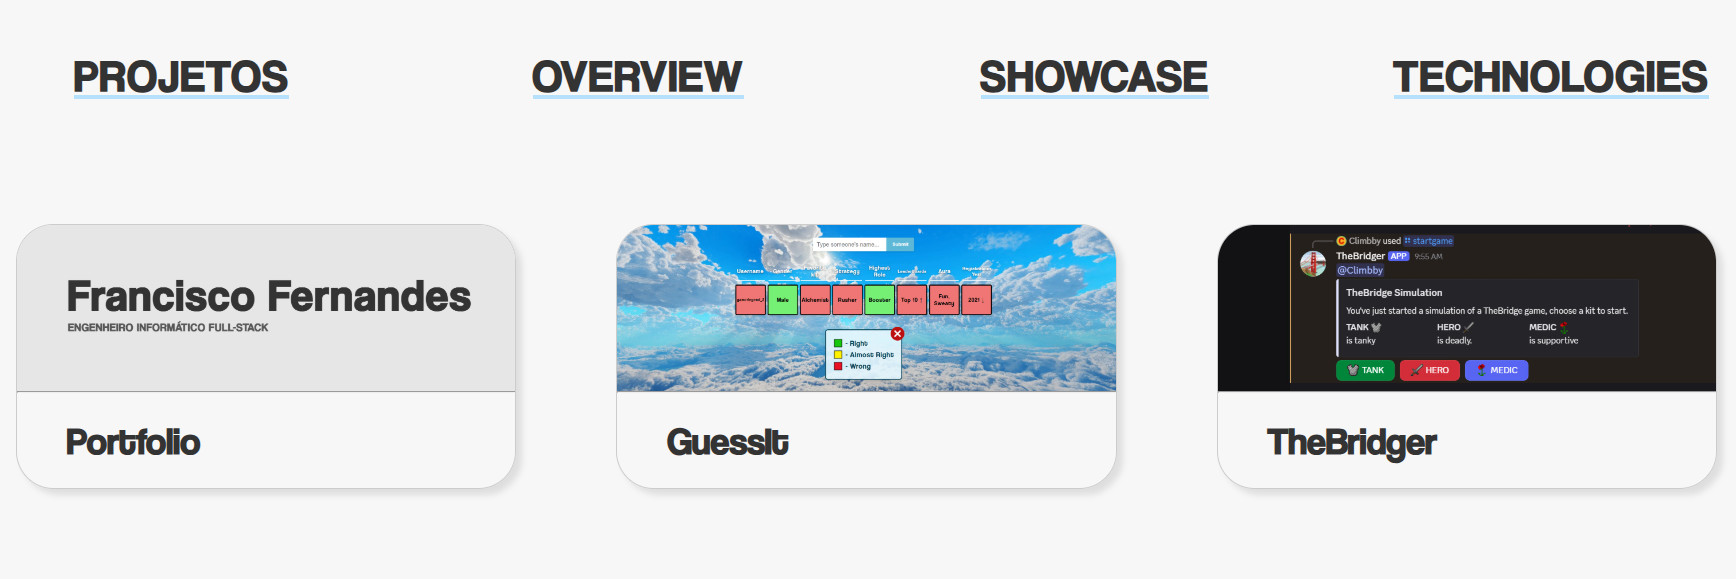
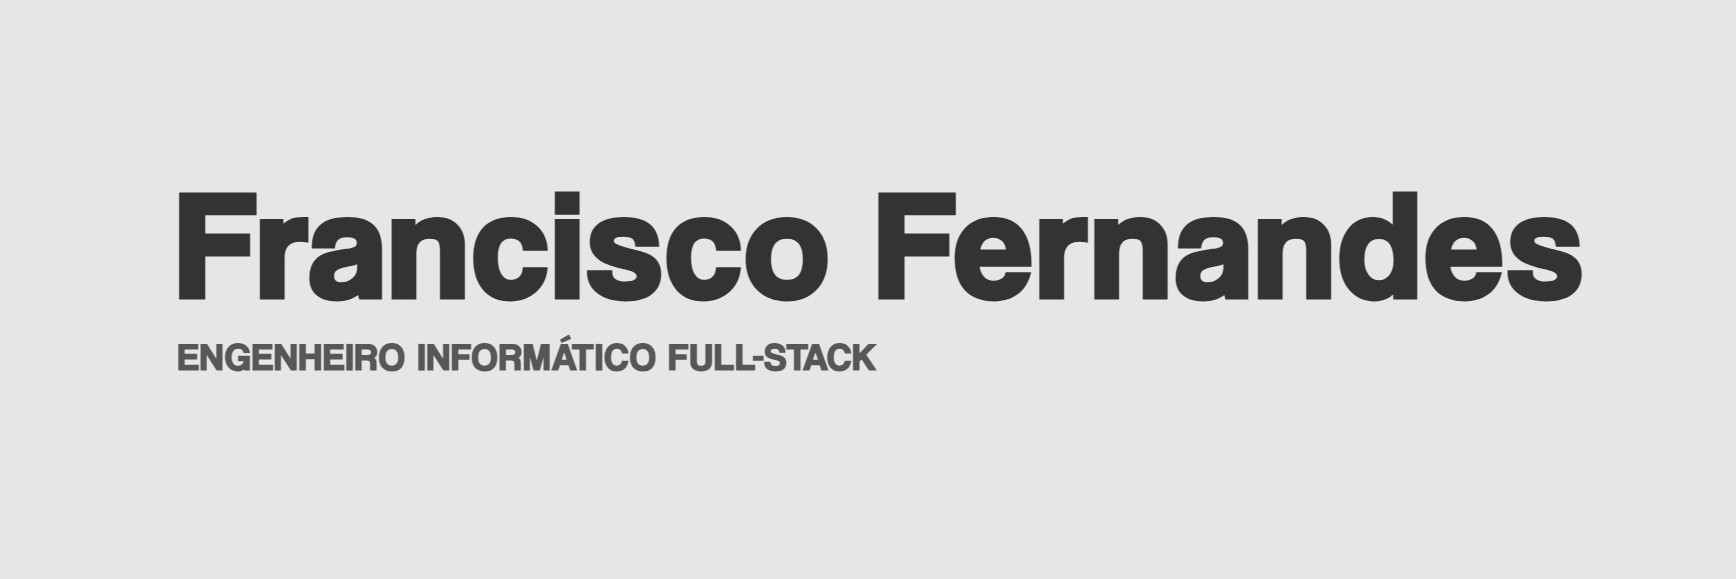
carousel images added on demonstration section

diff --git a/index.html b/index.html
@@ -42,7 +42,7 @@
             <div id="the-projetos">
                 <div class="card-outline active">
                     <article class="card" id="portfolio">
-                        <img src="Images/portfolioImg2.jpg" alt="Portfolio">
+                        <img src="Images/portfolioImg.jpg" alt="Portfolio">
                         <h3>Portfolio</h3>
                     </article>
                 </div>
@@ -72,20 +72,23 @@
                 <article id="portfolio">
                     Começado em Fevereiro de 2025, este é o meu primeiro projeto e website, o meu portfólio. Aqui podes ver um pouco
                     sobre mim, o meu currículo, conhecimentos atuais, disponibilizo também os meus perfis e formas de me contactar, mas 
-                    o principal foco deste portfólio, é a exposição dos meus mais trabalhados projetos. Quando selecionas um dos meus 
-                    projetos, consegues também ver a sua descrição, algumas imagens juntamente com o seu acesso, e as linguagens ou 
-                    tecnologias usadas para a realização de cada um.
+                    o principal foco deste portfólio, é a exposição dos meus mais trabalhados projetos. <br> <br>
+                    
+                    Quando selecionas um dos meus projetos, consegues também ver a sua descrição, algumas imagens juntamente com o 
+                    seu acesso, e as linguagens ou tecnologias usadas para a realização de cada um.
                 </article>
                 <article id="guessit">
                     Foi começado em Março de 2025 o meu primeiro website funcional e jogo, o guessit. É um jogo baseado no wordle, em que
-                    ganhas se o jogador escolhido secretamente e aleatóriamente, corresponder ao jogador que introduziste. Quando
+                    ganhas se o jogador escolhido secretamente e aleatóriamente, corresponder ao jogador que introduziste. <br> <br> Quando
                     introduzes um jogador, são mostradas caixas com as características e uma cor, em que verde significa certo, e vermelho
                     significa errado. Ganhas o jogo quando todas as caixas ficarem verdes.                    
                 </article>
                 <article id="thebridger">
                     Tendo-se iniciado em Abril de 2025, este é um chat-bot feito com recurso ao python e librarias externas, o TheBridger.
-                    O TheBridger, que foi feito para ser um bot no Discord, tem como objetivo simular um jogo de The Bridge. Este bot foi
-                    criado porque o modo de jogo mencionado, muitas vezes não alcança o mínimo de jogadores necessários para começar.
+                    O TheBridger, que foi feito para ser um bot no Discord, tem como objetivo simular um jogo de The Bridge. <br> <br>
+                    
+                    Este bot foi criado porque o modo de jogo mencionado, muitas vezes não alcança o mínimo de jogadores necessários 
+                    para começar uma partida. <br> <br>
 
                     As tuas decisões importam! Tens que fazer as escolhas certas, que alterarão as probabilidades de acontecerem certos
                     eventos, e tens que destruir o Nexus dos oponentes.
@@ -94,29 +97,58 @@
 
             <div class="seccao demonstracao">
                 <article id="portfolio">
+                    <div class="carousel">
+                        <div class="carousel-inner">
+                            <img src="Images/portfolioOverview.jpg" alt="Portfolio1">
+                            <img src="Images/portfolioOverview2.jpg" alt="Portfolio2">
+                        </div>
+                        <button class="carousel-control prev">❮</button>
+                        <button class="carousel-control next">❯</button>
+                    </div>
+
                     <a href="https://github.com/Climbby/Portfolio" target="_blank">
-                        <img src="Images/Github.svg" id="github" alt="Portfolio">
+                        <img src="Images/Github.svg" id="github" alt="GitHub">
                     </a>
                     <a href="https://climbby.github.io/Portfolio/" id="link" target="_blank">
-                        projeto: https://climbby.github.io/Portfolio/
+                        <i>https://climbby.github.io/Portfolio/</i>
                     </a>
                 </article>
 
                 <article id="guessit">
+                    <div class="carousel">
+                        <div class="carousel-inner">
+                            <img src="Images/guessitOverview.jpg" alt="GuessIt1">
+                            <img src="Images/guessitOverview2.jpg" alt="GuessIt2">
+                            <img src="Images/guessitOverview3.jpg" alt="GuessIt3">
+                        </div>
+                        <button class="carousel-control prev">❮</button>
+                        <button class="carousel-control next">❯</button>
+                    </div>
+
                     <a href="https://github.com/Climbby/GuessIt_front" target="_blank">
-                        <img src="Images/Github.svg" id="github" alt="GuessIt">
+                        <img src="Images/Github.svg" id="github" alt="GitHub">
                     </a>
                     <a href="https://climbby.github.io/GuessIt_front/" id="link" target="_blank">
-                        projeto: https://climbby.github.io/GuessIt_front/
+                        <i>https://climbby.github.io/GuessIt_front/</i>
                     </a>
                 </article>
 
                 <article id="thebridger">
+                    <div class="carousel">
+                        <div class="carousel-inner">
+                            <img src="Images/thebridgerOverview.jpg" alt="TheBridger1">
+                            <img src="Images/thebridgerOverview2.jpg" alt="TheBridger2">
+                            <img src="Images/thebridgerOverview3.jpg" alt="TheBridger3">
+                        </div>
+                        <button class="carousel-control prev">❮</button>
+                        <button class="carousel-control next">❯</button>
+                    </div>
+
                     <a href="https://github.com/Climbby/TheBridger" target="_blank">
-                        <img src="Images/Github.svg" id="github" alt="TheBridger">
+                        <img src="Images/Github.svg" id="github" alt="GitHub">
                     </a>
                     <a href="https://discord.gg/AUeYVZnnHD" id="link" target="_blank">
-                        projeto: https://discord.gg/AUeYVZnnHD
+                        <i>https://discord.gg/AUeYVZnnHD</i>
                     </a>
                 </article>
             </div>

diff --git a/en/index.html b/en/index.html
@@ -42,7 +42,7 @@
             <div id="the-projetos">
                 <div class="card-outline active">
                     <article class="card" id="portfolio">
-                        <img src="/Images/portfolioImg2.jpg" alt="Portfolio">
+                        <img src="/Images/portfolioImg.jpg" alt="Portfolio">
                         <h3>Portfolio</h3>
                     </article>
                 </div>
@@ -72,19 +72,24 @@
                 <article id="portfolio">
                     Having started in February 2025, this is my first project and website, my portfolio. Here you can see a bit about 
                     me, my resume, current skills, I also provide my profiles and ways to contact me, but the main focus of this 
-                    portfolio is the exposure of my most worked on projects. When you select one of my projects, you can also see its 
+                    portfolio is the exposure of my most worked on projects. <br> <br>
+                    
+                    When you select one of my projects, you can also see its 
                     description, some images along with its access, and the languages or technologies used for the realization of each one.
                 </article>
                 <article id="guessit">
                     This is my first functional website and game, guessit, which started in March 2025. It is a game based on wordle, 
-                    where you win if the secretly and randomly chosen player matches the player you entered. When you enter a player,
-                    boxes with characteristics and a color are shown, where green means right, and red means wrong. You win the game when
-                    all the boxes turn green.                   
+                    where you win if the secretly and randomly chosen player matches the player you entered. <br> <br>
+                    
+                    When you enter a player, boxes with characteristics and a color are shown, where green means right, and red means 
+                    wrong. You win the game when all the boxes turn green.                   
                 </article>
                 <article id="thebridger">
                     TheBridger is a project I started in April 2025, this is a chat-bot made with python and external libraries, TheBridger.
-                    TheBridger, which was made to be a bot on Discord, aims to simulate a game of The Bridge. This bot was created because 
-                    the mentioned game mode often does not reach the minimum number of players required to start.
+                    TheBridger, which was made to be a bot on Discord, aims to simulate a game of The Bridge. <br> <br>
+                    
+                    This bot was created because the mentioned game mode often lacks the minimum number of players required 
+                    to start. <br> <br>
 
                     Your decisions matter! You have to make the right choices, which will change the probabilities of certain events 
                     happening, and you have to destroy the opponents' Nexus.
@@ -93,29 +98,58 @@
 
             <div class="seccao demonstracao">
                 <article id="portfolio">
+                    <div class="carousel">
+                        <div class="carousel-inner">
+                            <img src="/Images/portfolioOverview.jpg" alt="Portfolio1">
+                            <img src="/Images/portfolioOverview2.jpg" alt="Portfolio2">
+                        </div>
+                        <button class="carousel-control prev">❮</button>
+                        <button class="carousel-control next">❯</button>
+                    </div>
+
                     <a href="https://github.com/Climbby/Portfolio" target="_blank">
-                        <img src="/Images/Github.svg" id="github" alt="Portfolio">
+                        <img src="/Images/Github.svg" id="github" alt="GitHub">
                     </a>
                     <a href="https://climbby.github.io/Portfolio/" id="link" target="_blank">
-                        project: https://climbby.github.io/Portfolio/
+                        <i>https://climbby.github.io/Portfolio/</i>
                     </a>
                 </article>
 
                 <article id="guessit">
+                    <div class="carousel">
+                        <div class="carousel-inner">
+                            <img src="/Images/guessitOverview.jpg" alt="GuessIt1">
+                            <img src="/Images/guessitOverview2.jpg" alt="GuessIt2">
+                            <img src="/Images/guessitOverview3.jpg" alt="GuessIt3">
+                        </div>
+                        <button class="carousel-control prev">❮</button>
+                        <button class="carousel-control next">❯</button>
+                    </div>
+
                     <a href="https://github.com/Climbby/GuessIt_front" target="_blank">
-                        <img src="/Images/Github.svg" id="github" alt="GuessIt">
+                        <img src="/Images/Github.svg" id="github" alt="GitHub">
                     </a>
                     <a href="https://climbby.github.io/GuessIt_front/" id="link" target="_blank">
-                        project: https://climbby.github.io/GuessIt_front/
+                        <i>https://climbby.github.io/GuessIt_front/</i>
                     </a>
                 </article>
 
                 <article id="thebridger">
+                    <div class="carousel">
+                        <div class="carousel-inner">
+                            <img src="/Images/thebridgerOverview.jpg" alt="TheBridger1">
+                            <img src="/Images/thebridgerOverview2.jpg" alt="TheBridger2">
+                            <img src="/Images/thebridgerOverview3.jpg" alt="TheBridger3">
+                        </div>
+                        <button class="carousel-control prev">❮</button>
+                        <button class="carousel-control next">❯</button>
+                    </div>
+
                     <a href="https://github.com/Climbby/TheBridger" target="_blank">
-                        <img src="/Images/Github.svg" id="github" alt="TheBridger">
+                        <img src="/Images/Github.svg" id="github" alt="GitHub">
                     </a>
                     <a href="https://discord.gg/AUeYVZnnHD" id="link" target="_blank">
-                        project: https://discord.gg/AUeYVZnnHD
+                        <i>https://discord.gg/AUeYVZnnHD</i>
                     </a>
                 </article>
             </div>

diff --git a/index.js b/index.js
@@ -5,9 +5,14 @@ const titles = document.querySelectorAll('#projetos #titles-container .title')
 const projetos = document.querySelector('.container#projetos')
 const githubs = document.querySelectorAll('.container#projetos .seccao #github')
 const articleLinks = document.querySelectorAll('.container#projetos .seccao.demonstracao article #link')
+const demonstracaoArticles = document.querySelectorAll('.container#projetos .seccao.demonstracao article')
+const prevBtns = document.querySelectorAll('.carousel-control.prev');
+const nextBtns = document.querySelectorAll('.carousel-control.next');
+let demonstracaoArticlesDictionary = {}
 let card_id = "portfolio"
 let title_id = "visao-geral"
 
+// sets size for each section
 function calculate_size(){
     const projetos__seccao = document.querySelector('#projetos #the-projetos')
     projetos.style.height = `${titlesContainer.offsetHeight + projetos__seccao.offsetHeight + 500}px`
@@ -17,7 +22,7 @@ function calculate_size(){
     git_pos()
     links_pos()
 }
-
+//sets git position in sections
 function git_pos(){
     
     githubs.forEach(github => {
@@ -25,6 +30,7 @@ function git_pos(){
         github.style.top = `${zeroHeight - 50}px`
     })
 }
+//sets project link position in demonstration
 function links_pos(){
     
     articleLinks.forEach(link => {
@@ -65,12 +71,50 @@ titles.forEach(title => {
   })
 })
 
+// sets carousel buttons functionality
+demonstracaoArticles.forEach(article => {
+    let prevButton = article.querySelector('.carousel-control.prev')
+    let nextButton = article.querySelector('.carousel-control.next')
+    let images = article.querySelectorAll('.carousel img')
+    let dAD = demonstracaoArticlesDictionary
+
+    dAD[article.id] = [0, 0, images.length - 1]
+    // values are   = [min, current_image, max]
+
+    prevButton.addEventListener('click', () => {
+        if(dAD[article.id][1] == dAD[article.id][0]) return 
+        dAD[article.id][1]++
+
+        images.forEach(image => {
+            image.style.transform = `translateY(${dAD[article.id][1] * 100}%)`
+        });
+
+        nextButton.style.visibility = 'visible';
+        if(dAD[article.id][1] == dAD[article.id][0]){
+            prevButton.style.visibility = 'hidden';
+        }
+    })
+    nextButton.addEventListener('click', () => {
+        if(dAD[article.id][1] == -dAD[article.id][2]) return
+        dAD[article.id][1]--
+
+        images.forEach(image => {
+            image.style.transform = `translateY(${dAD[article.id][1] * 100}%)`
+        });
+
+        prevButton.style.visibility = 'visible';
+        if(dAD[article.id][1] == -dAD[article.id][2]){
+            nextButton.style.visibility = 'hidden';
+        }
+    })
+});
+
+// show content based on selected title/tab selected
 function change_content(){
 
     let seccao_content = document.querySelector(`.seccao.${title_id}`)
     let content = document.querySelector(`.seccao.${title_id} #${card_id}`)
 
-    // show content based on selected title
     seccoes.forEach(seccao => {        
         seccao.style.display = "none"
         articles = seccao.querySelectorAll("article")
@@ -99,6 +143,6 @@ function change_content(){
 
 }
 
-calculate_size()
-change_content()
+calculate_size() // sets size for each section
+change_content() // show content based on active title (first tab by default)
 window.addEventListener('resize', calculate_size)

diff --git a/style.css b/style.css
@@ -196,6 +196,10 @@ main{
 .container#projetos .seccao #github{
     position: absolute;
     right: 9vw;
+    z-index: 1;
+}
+.container#projetos .seccao #github:hover{
+    transform: translateY(-5%);
 }
 .container#projetos .seccao.visao-geral{
     display: block;
@@ -209,13 +213,51 @@ main{
 }
 .container#projetos .seccao.demonstracao article{
     display: none;
+    width: 100%;
 }
 .container#projetos .seccao.demonstracao article #link{
+    width: 100%;
     position: absolute;
     text-decoration: none;
-    color: inherit;
+    color: hsl(0, 0%, 70%);
+    box-sizing: border-box;
+    overflow-wrap: break-word;
     font-size: 30px;
     padding-left: 9vw;
+}
+.container#projetos .seccao.demonstracao article #link:hover{
+    transform: translateY(-10%) ;
+}
+.carousel{
+    position: relative;
+    width: min(500px, 30vw);
+    aspect-ratio: 16/9;
+    margin: 60px auto;
+    overflow: hidden;
+    box-shadow: 3px 3px 10px hsla(0, 0%, 0%, 0.1);
+    border-radius: 5px;
+}
+.carousel img{
+    display: block; /* to remove whitespace between images */
+    width: 100%;
+}
+.carousel-control {
+    position: absolute;
+    top: 50%;
+    transform: translateY(-50%);
+    background: rgba(0,0,0,0.5);
+    color: white;
+    border: none;
+    padding: 10px;
+    cursor: pointer;
+}
+
+.prev { 
+    visibility: hidden;
+    left: 10px; 
+}
+.next { 
+    right: 10px; 
 }
 .container#projetos .seccao.tecnologias article{
     display: none;
@@ -236,7 +278,7 @@ main{
     width: 96px;
     pointer-events: auto;
 }
-.container#projetos .seccao.tecnologias article .image-text{
+.container#projetos .seccao.tecnologias .image-text{
     position: absolute;
     bottom: 80px;
     left: 50%;
@@ -247,10 +289,10 @@ main{
     transform: translateX(-50%);
     opacity: 0;
 }
-.container#projetos .seccao.tecnologias article img:hover{
+.container#projetos .seccao.tecnologias img:hover{
     transform: translateX(-50%) scale(1.1);
 }
-.container#projetos .seccao.tecnologias article img:hover + .image-text{
+.container#projetos .seccao.tecnologias img:hover + .image-text{
     opacity: 1;
 }
 
